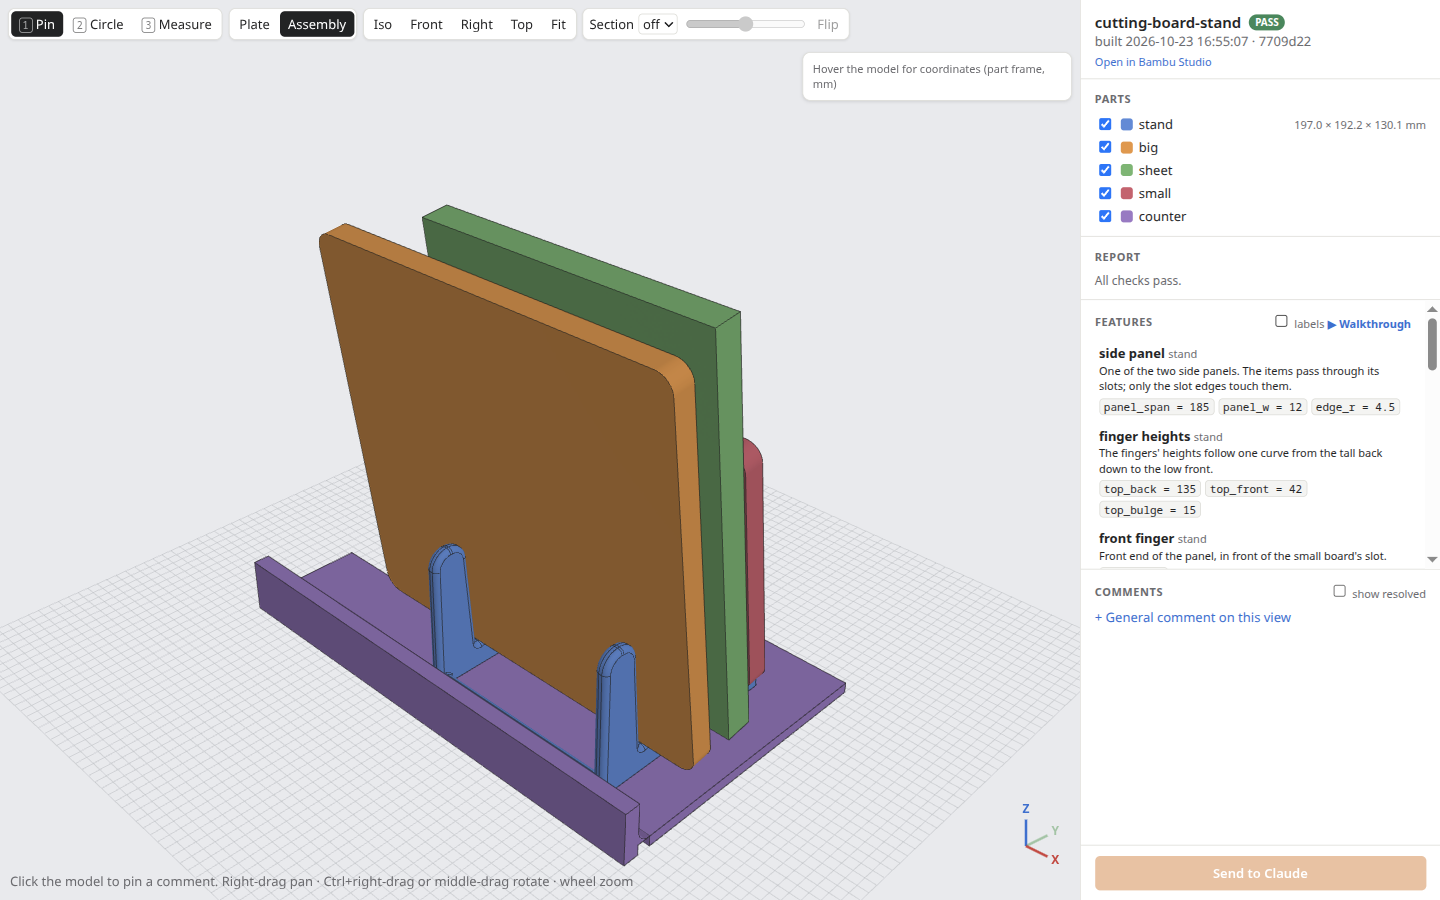
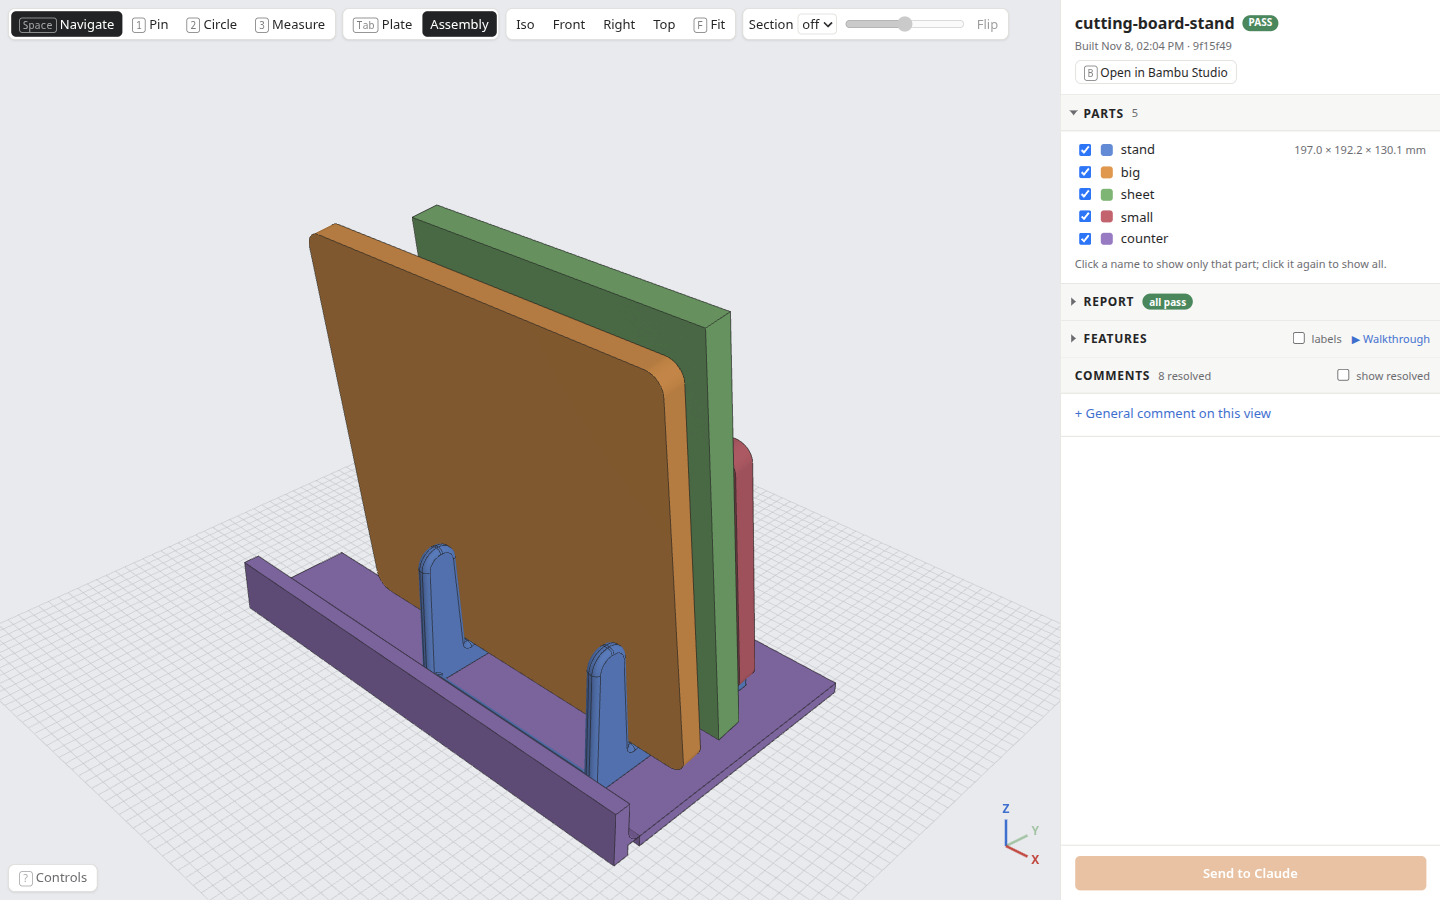
README: shorter, with screenshots of the current review app
The README is now a pitch, a hero screenshot, what you get, a four-line
quick start, a screenshot grid and links to CLAUDE.md and the example
projects. A comment marks where the demo video goes. The review app
screenshots are retaken with the current UI.

diff --git a/README.md b/README.md
@@ -1,103 +1,48 @@
 # claud3d
 
-A workflow and toolkit for designing 3D-printed parts with [Claude Code](https://claude.com/claude-code). You describe the part. Claude writes a parametric [build123d](https://github.com/gumyr/build123d) model, checks it for printability, shows it to you in a browser viewer where you can leave comments, and slices it for your printer.
+Design 3D-printed parts by talking to Claude.
 
-The method is written down in [CLAUDE.md](CLAUDE.md): how Claude pins down requirements, picks a print orientation, models, verifies its own work, takes review comments and hands off a print. Claude Code reads it when you run `claude` in this folder. The framework that Claude drives lives in `cadlib/` and the `cad` command: builds, printability checks, renders, slicing and the review app.
+Describe the part you need. [Claude Code](https://claude.com/claude-code) models it in [build123d](https://github.com/gumyr/build123d), checks that it will print, shows it to you in your browser, and slices it for your printer.
 
-![The review app showing the cutting-board stand on the print plate, with Claude's feature labels on the model and the feature list in the sidebar](docs/images/review-features.png)
+<!-- Demo video goes here. -->
 
-## How it works
+![The review app showing a cutting-board stand on the print plate, with feature labels on the model and the build report in the sidebar](docs/images/review.png)
 
-1. You tell Claude what you need, for example "a stand that holds two cutting boards on edge next to my sink". Claude asks for measurements and constraints and writes them down as numbered requirements with acceptance criteria.
-2. Claude writes `projects/<name>/model.py`. Every dimension is a parameter, and each requirement has a check that measures the built geometry.
-3. `cad build` exports STEP and STL, then checks the parts: manifold, build volume, bed contact, overhangs, bridges, wall thickness, interference between assembled parts. It also runs the model's own requirement checks, renders PNG contact sheets with problem areas coloured in, slices, and writes a report. Claude reads the report and looks at the renders before showing you anything.
-4. `cad review` opens a 3D viewer in your browser. You can measure (it snaps to real edges and circle centres), cut a section, switch between the print plate and the assembled view, and step through Claude's labels for the model's features. To give feedback, pin a point or circle an area and type a comment. Press "Send to Claude" and Claude gets your comments, each with a screenshot and coordinates, then changes the model and replies in the same threads.
-5. When you're happy, `cad open` opens the sliced project in Bambu Studio. Without a slicer configured, you get the checked STL files.
+## What you get
 
-`projects/` holds three real projects you can build and look at: `example-box` (a box with a friction-fit lid), `cutting-board-stand` and `curved-i-beam`. Each has its requirements, decisions and review history in its own `CLAUDE.md` and `review/` folder.
+- Parametric models. Every dimension is a named parameter, and every requirement has a check that measures the built part.
+- Printability checks before you print: overhangs, bridges, thin walls, build volume, and parts that collide.
+- Review in the browser. Pin or circle what should change and send it; Claude edits the model and replies in the thread.
+- A sliced Bambu Studio project, or plain STL files for any other slicer.
 
-## Screenshots
-
-The assembled view puts each part where it goes. Here the stand holds the two cutting boards and a baking sheet, sitting on the counter.
-
-![Assembly view of the cutting-board stand holding two boards and a baking sheet](docs/images/review-assembly.png)
-
-The comment threads stay with the model. Each marker is a comment you left, and Claude's reply says what it changed.
-
-![Review comments pinned to the model, with a resolved thread and Claude's reply in the sidebar](docs/images/review-comments.png)
-
-Measuring snaps to the exact CAD geometry and splits the distance into X, Y and Z. This one confirms the 185 mm panel span.
-
-![Measuring the 185 mm span between the stand's side panels](docs/images/review-measure.png)
-
-Each build writes a render sheet per part for Claude to look at. This curved I-beam has 1 mm walls on purpose, so the wall-thickness check marks them in magenta.
-
-![Render sheet of the curved I-beam: iso views, front, right and top projections, and a cross-section](docs/images/render-sheet.png)
-
-## Requirements
-
-- [uv](https://docs.astral.sh/uv/) (it installs Python 3.13 and the dependencies)
-- [Claude Code](https://claude.com/claude-code)
-- A slicer, optional. [Bambu Studio](https://bambulab.com/en/download/studio) is built in: `cad build` slices with its CLI using your presets, and reads your printer's printable area from the machine preset. For any other slicer, `cad build` stops at checked STL files, and you or Claude slice them.
-- FreeCAD, optional, for opening STEP files.
-
-It has only been tested on Linux with the Bambu Studio flatpak. Other platforms and native Bambu Studio installs probably need small changes to `cadlib/bambu.py`.
-
-## Getting started
+## Quick start
 
 ```bash
 git clone https://github.com/theepicflyer/claud3d.git
 cd claud3d
 uv sync
-uv run pytest -q
-uv run cad build example-box
+claude
 ```
 
-Then run `claude` in the folder and describe a part. On first use Claude asks about your printer, slicer and filaments, and writes them to `printer.local.toml`.
+Then describe a part. The first time, Claude asks about your printer and filaments.
 
-## Your setup stays local
+You need [uv](https://docs.astral.sh/uv/) and [Claude Code](https://claude.com/claude-code). [Bambu Studio](https://bambulab.com/en/download/studio) is optional. So far it's only been tested on Linux with the Bambu Studio flatpak.
 
-These are gitignored, so you can fork the repo, push it publicly and keep your own setup and models out of it:
+## Screenshots
 
-- `printer.local.toml`: your printer, slicer presets, materials and fit clearances, merged over the defaults in `printer.toml`. To build without a slicer:
+| | |
+|---|---|
+| ![Comment threads pinned to the model, with Claude's replies in the sidebar](docs/images/review-comments.png) | ![The stand in its assembled view, holding two cutting boards and a baking sheet](docs/images/review-assembly.png) |
+| Comment on the model, and Claude replies | See the parts assembled |
+| ![Measuring the 185 mm span between the side panels](docs/images/review-measure.png) | ![Render sheet of a curved I-beam with thin walls marked in magenta](docs/images/render-sheet.png) |
+| Measure with snapping to real edges | Problem areas marked on every build |
 
-  ```toml
-  [printer]
-  name = "My printer"
-  slicer = "none"
-  build_volume = [220, 220, 250]
-  ```
+## Learn more
 
-- `CLAUDE.local.md`: your preferences for Claude, such as printer quirks, the materials you have, and how much git you want it to handle. Claude Code loads it automatically.
-- `private/`: projects you don't want to publish. `uv run cad new <name> --private` creates one there, and every other command finds it by name. You can make `private/` its own git repo with a private remote.
-
-## Commands
-
-```
-uv run cad new <name> [--private]      create a project from the template
-uv run cad build <name> [-p key=val]   export, check, render, slice; writes <project>/out/
-uv run cad review <name>               open the review app in the browser
-uv run cad comments <name> [--all]     list review threads
-uv run cad reply <name> <id> "text"    reply to a thread (--resolve to close it)
-uv run cad open <name> [--step]        open the sliced project in Bambu Studio, or STEP files in FreeCAD
-uv run cad profiles machine|process|filament [regex]   list Bambu Studio presets
-uv run cad list                        list projects and their last build status
-```
-
-A build writes these to `out/`:
-
-- `<part>.step` and `<part>.stl` for each part
-- `<part>.png`: iso, below, front, right and top views and a cross-section. Overhangs are red, flat ceilings orange and thin walls magenta.
-- `assembly.png`, if the model defines an assembly
-- `report.md` and `report.json`: every check, plus slice time and filament weight
-- `slice/<project>.gcode.3mf`: the sliced Bambu Studio project, when a slicer is configured
-
-## Review app controls
-
-The mouse navigates like Bambu Studio: left-drag rotates, right- or middle-drag pans, the wheel zooms. Press 1 pin, 2 circle or 3 measure to give the left button to a tool; Space switches between navigating and the last tool, and Esc goes back to navigating. Right-drag and the wheel work in every mode. Tab switches between the plate and the assembly, F fits the view, and B opens the sliced project in Bambu Studio. The Controls button (or `?`) lists everything.
-
-The sidebar's report shows the slice time and filament, the requirements, each part's printability findings and the gaps between assembled parts. Click a location in it to fly to that spot on the model.
+- [CLAUDE.md](CLAUDE.md) is how Claude works on a part. It also lists the `cad` commands and the review app's features.
+- [`projects/`](projects) has three example projects, each with its requirements, decisions and review history.
+- Your printer setup (`printer.local.toml`, `CLAUDE.local.md`) and private projects (`private/`) are gitignored, so you can fork this repo publicly.
 
 ## License
 
-[MIT](LICENSE). The vendored [three.js](https://threejs.org/) and [three-mesh-bvh](https://github.com/gkjohnson/three-mesh-bvh) in `cadlib/review/static/vendor/` are MIT licensed by their authors.
+[MIT](LICENSE). The vendored [three.js](https://threejs.org/) and [three-mesh-bvh](https://github.com/gkjohnson/three-mesh-bvh) are MIT licensed by their authors.
